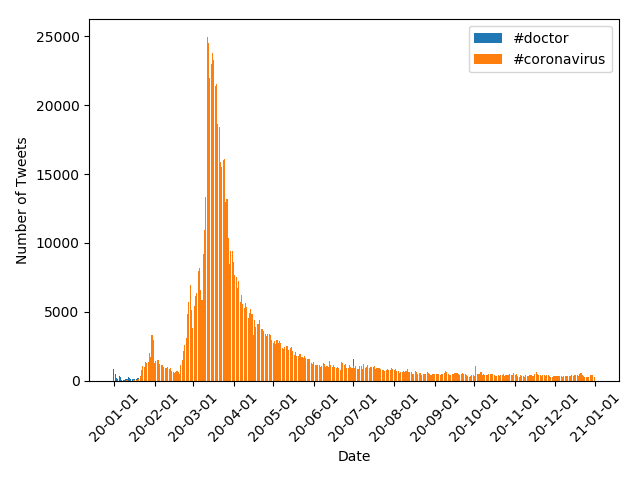
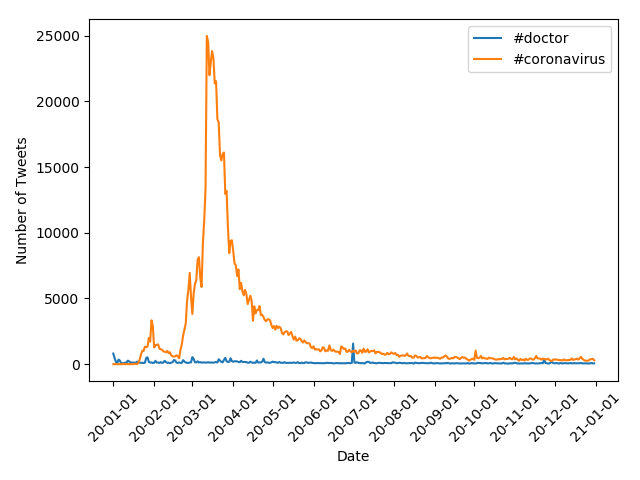
just realized I was making bar plots not line plots

diff --git a/src/alternative_reduce.py b/src/alternative_reduce.py
@@ -39,18 +39,23 @@ for output in sorted(os.listdir("./outputs")):
 # visualize
 
 # print the count values
+hashtag_string = ''
 for hashtag in args.hashtags:
-    print('hashtag =', hashtag)
+    hashtag_string += hashtag
+    hashtag_string += '_'
     items = sorted(total[hashtag].items(), key=lambda item: datetime.strptime(item[0], "%y-%m-%d"))
     for k,v in items:
         print(k,':',v)
     tweets = [i[1] for i in items]
     date = [datetime.strptime(i[0], "%y-%m-%d") for i in items]
-    plt.bar(date, tweets)
-    plt.xlabel("Date")
-    plt.gca().xaxis.set_major_locator(mdates.MonthLocator(bymonthday=1))
-    plt.gca().xaxis.set_major_formatter(mdates.DateFormatter("%y-%m-%d"))
-    plt.xticks([x for x in date if x.day == 1], rotation=45)
-    plt.ylabel(f"Number of Tweets with {hashtag}")
-    plt.tight_layout(pad = 1.15)
-    plt.savefig(f"daily_{hashtag}_tweets_plot.png")
+    plt.plot(date, tweets, label = hashtag)
+#date = [datetime.strptime(i[0], "%y-%m-%d") for i in total[args.hashtags[0]]]
+plt.xlabel("Date")
+plt.gca().xaxis.set_major_locator(mdates.MonthLocator(bymonthday=1))
+plt.gca().xaxis.set_major_formatter(mdates.DateFormatter("%y-%m-%d"))
+#plt.xticks([x for x in date if x.day == 1], rotation=45)
+plt.xticks(rotation = 45)
+plt.ylabel("Number of Tweets")
+plt.tight_layout(pad = 1.15)
+plt.legend()
+plt.savefig(f"daily_{hashtag_string}tweets_plot.png")
